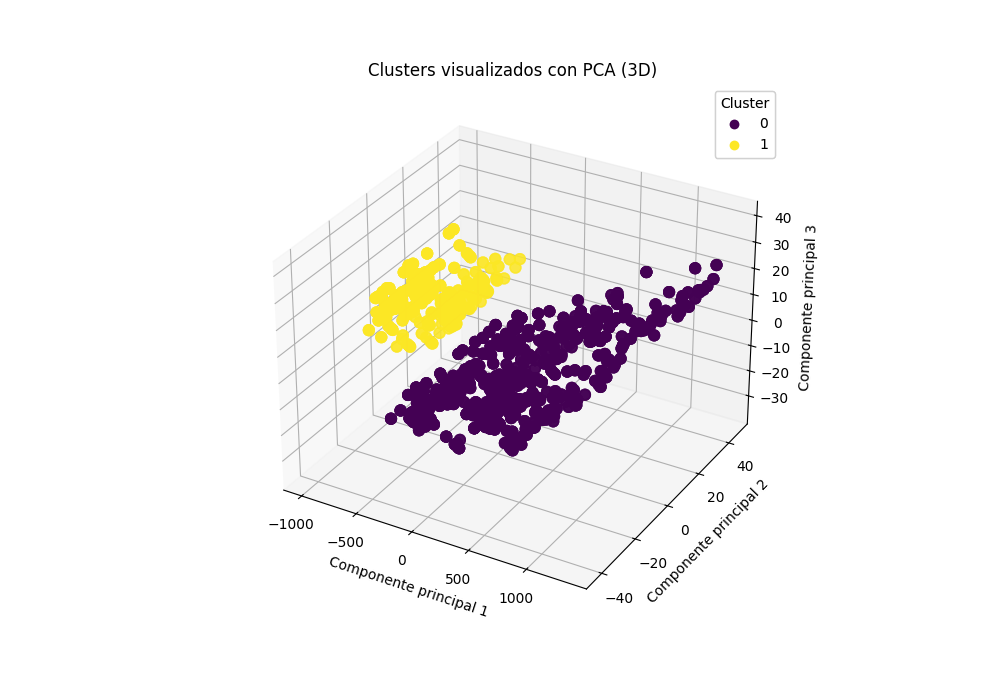
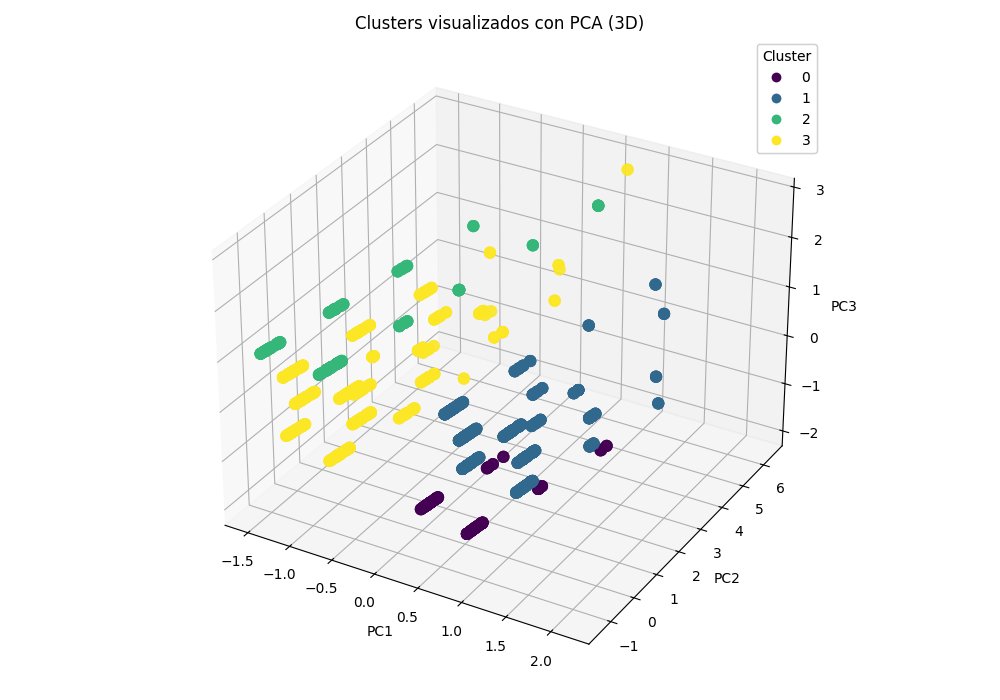
Agrupamiento completado y redactado

diff --git a/Model/PredictiveModel.py b/Model/PredictiveModel.py
@@ -10,7 +10,6 @@ from sklearn.cluster import KMeans
 from sklearn.metrics import accuracy_score, classification_report
 import matplotlib.pyplot as plt
 import seaborn as sns
-from collections import Counter
 import joblib
 
 # --- 0.5 Funciones auxiliares para procesar los datos ---
@@ -81,7 +80,6 @@ def preprocess_data(file_path):
         calculate_success_rate_matrix(u, i)
         for u, i in zip(times_used_conditioned, times_improved_conditioned)
     ]
-    
     # Aplica el algoritmo greedy para encontrar el mejor orden
     df['Best Order'] = df['Success Rate Matrix'].apply(greedy_best_order)
 
@@ -93,20 +91,23 @@ def preprocess_data(file_path):
         df[f"Order_{i}"] = df["Best Order"].apply(lambda x: x[i])
     
     df_clean = df.drop(columns=['Instance Name', 'Times Used', 'Times Improved', 'Times Used Conditioned', 'Times Improved Conditioned', 'Success Rate Matrix', 'Best Order'])
-    # # Ejemplo: mostrar la primera fila de cada estructura reconstruida
-    # print("Times Used Vec: \n", times_used_vector)
-    # print("Times Improved Vec: \n", times_improved_vector)
-    # print("Times Used Conditioned Mat:\n", times_used_conditioned[0])
-    # print("Times Improved Conditioned Mat:\n", times_improved_conditioned)
-    # # print("Success Rate:\n", df['Success Rate Matrix'].head())
-    # # print("Best Order (primera fila):", df['Best Order'].head())
-    # print(df)
     return df_clean, df
 
 
 # --- 2. Clusterización de instancias por comportamiento heurístico ---
 
-def elbow_method(features, max_k=10):
+def mahalanobis_whitening(X):
+    scaler = StandardScaler()
+    X_scaled = scaler.fit_transform(X)
+    cov = np.cov(X_scaled, rowvar=False)
+    inv_cov = np.linalg.inv(cov)
+    L = np.linalg.cholesky(inv_cov)
+    X_maha = X_scaled @ L
+    return X_maha
+
+def elbow_method(features, max_k=10, use_mahalanobis=False):
+    if use_mahalanobis:
+        features = mahalanobis_whitening(features)
     scaler = StandardScaler()
     features_scaled = scaler.fit_transform(features)
     inertias = []
@@ -122,7 +123,10 @@ def elbow_method(features, max_k=10):
     plt.savefig("elbow_method.png")
     plt.close()
 
-def cluster_instances(features, df_original, n_clusters=5):
+def cluster_instances(features, df_original, n_clusters=5, use_mahalanobis=False):
+    # Mahalanobis whitening si se solicita
+    if use_mahalanobis:
+        features = mahalanobis_whitening(features)
     # Escalar las características
     scaler = StandardScaler()
     features_scaled = scaler.fit_transform(features)
@@ -130,25 +134,43 @@ def cluster_instances(features, df_original, n_clusters=5):
     # Aplicar KMeans para clusterizar
     kmeans = KMeans(n_clusters=n_clusters, random_state=42)
     clusters = kmeans.fit_predict(features_scaled)
-
-    # Añadir los clusters al DataFrame original
     df_original['Cluster'] = clusters
 
-    # Visualizar los clusters en 3D con PCA
-    pca = PCA(n_components=3)
-    features_pca = pca.fit_transform(features)
+    # PCA para visualización
+    pca_3d = PCA(n_components=3)
+    features_pca_3d = pca_3d.fit_transform(features_scaled)
+    pca_2d = PCA(n_components=2)
+    features_pca_2d = pca_2d.fit_transform(features_scaled)
+
+    # Visualización 3D
     fig = plt.figure(figsize=(10, 7))
     ax = fig.add_subplot(111, projection='3d')
-    scatter = ax.scatter(features_pca[:, 0], features_pca[:, 1], features_pca[:, 2],
+    scatter = ax.scatter(features_pca_3d[:, 0], features_pca_3d[:, 1], features_pca_3d[:, 2],
                          c=clusters, cmap='viridis', s=60)
     ax.set_title('Clusters visualizados con PCA (3D)')
-    ax.set_xlabel('Componente principal 1')
-    ax.set_ylabel('Componente principal 2')
-    ax.set_zlabel('Componente principal 3')
+    ax.set_xlabel('PC1')
+    ax.set_ylabel('PC2')
+    ax.set_zlabel('PC3')
     legend1 = ax.legend(*scatter.legend_elements(), title="Cluster")
     ax.add_artist(legend1)
+    plt.tight_layout()
     plt.savefig("clusters_visualization_3d.png")
     plt.close()
+
+    # Visualización 2D
+    plt.figure(figsize=(8, 6))
+    sns.scatterplot(x=features_pca_2d[:, 0], y=features_pca_2d[:, 1], hue=clusters, palette='viridis', s=60)
+    plt.xlabel('PC1')
+    plt.ylabel('PC2')
+    plt.title('Clusters visualizados con PCA (2D)')
+    plt.legend(title="Cluster")
+    plt.tight_layout()
+    plt.savefig("clusters_visualization_2d.png")
+    plt.close()
+
+    for i in range(n_clusters):
+        mean_original = df_original[df_original['Cluster'] == i][["n", "m", "Proportion n/m", "Min Time", "Standard Deviation"]].mean()
+        print(f"Media de las features originales para Cluster {i}:\n{mean_original.values}")
 
     print("\nNúmero de entradas por cluster:")
     print(df_original['Cluster'].value_counts())
@@ -195,8 +217,7 @@ def main():
     # Separar features y labels
     # Verificar que las columnas se están seleccionando bien
     allowed_features = [
-        "n", "m", "Proportion n/m", "Min Time", "Max Time",
-        "Range", "Mean", "Median", "Variance", "Standard Deviation"
+        "n", "m", "Proportion n/m", "Min Time", "Standard Deviation"
     ]
     print("Columnas seleccionadas como features:")
     print(df_clean[allowed_features].head())
@@ -205,10 +226,6 @@ def main():
     corr_matrix = df_clean[allowed_features].corr()
     print("\nMatriz de correlación entre features:")
     print(corr_matrix)
-
-    # Visualizar la matriz de correlación con un heatmap
-    import matplotlib.pyplot as plt
-    import seaborn as sns
     plt.figure(figsize=(10, 8))
     sns.heatmap(corr_matrix, annot=True, cmap='coolwarm')
     plt.title("Matriz de correlación entre features")
@@ -216,15 +233,7 @@ def main():
     plt.savefig("correlation_matrix.png")
     plt.close()
 
-    allowed_features = [
-    "n", "m", "Proportion n/m", "Min Time", "Standard Deviation"
-    ]
-    cluster_features = [
-        "n", "m", "Proportion n/m", "Min Time", "Max Time",
-        "Range", "Mean", "Median", "Variance", "Standard Deviation"
-    ]
     features = df_clean[allowed_features].values
-    cluster_features_values = df_clean[cluster_features].values
     y_order = df_clean[["Order_0", "Order_1", "Order_2", "Order_3"]].values
 
     # Mostrar todos los órdenes diferentes en el dataset
@@ -248,7 +257,6 @@ def main():
 
     # Reordena los datos balanceados
     features_balanced = features[balanced_indices]
-    cluster_features_balanced = cluster_features_values[balanced_indices]
     y_order_balanced = y_order[balanced_indices]
     
     print("Tamaño del dataset balanceado:", len(features_balanced))
@@ -260,15 +268,15 @@ def main():
     model_order, scaler = train_order_prediction(features_balanced, y_order_balanced)
 
 # -------------------------- Clusterizar instancias por comportamiento heurístico --------------------------
-    elbow_method(cluster_features_balanced, max_k=10)
-    kmeans = cluster_instances(cluster_features_values, df_original, 2)
+    cluster_features = df_original[["n", "m", "Proportion n/m", "Min Time", "Standard Deviation"]].values
+    elbow_method(cluster_features, max_k=10, use_mahalanobis=True)
+    kmeans = cluster_instances(cluster_features, df_original, n_clusters=4, use_mahalanobis=True)
     print("Cluster 0:\n", df_original[df_original['Cluster'] == 0].head())
     print("Cluster 1:\n", df_original[df_original['Cluster'] == 1].head())
+    print("Cluster 2:\n", df_original[df_original['Cluster'] == 2].head())
 
     print("Ejemplo de entrada con orden [3, 1, 2, 0]:")
     print(df_original[np.all(y_order == [3, 1, 2, 0], axis=1)].head(1))
-    # # 3. Predecir efectividad de una estrategia
-    # strategy_model = train_strategy_effectiveness(features, df_original)
 
 if __name__ == "__main__":
     main()
